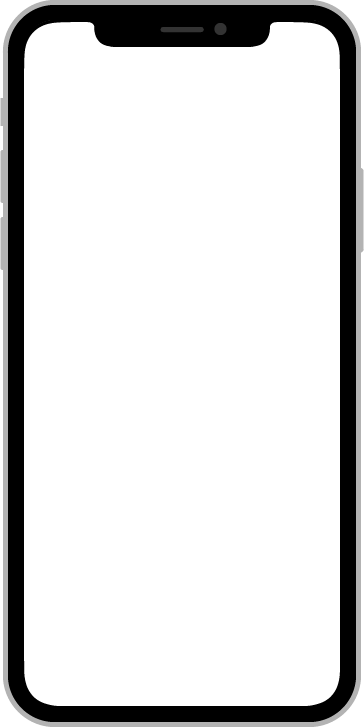
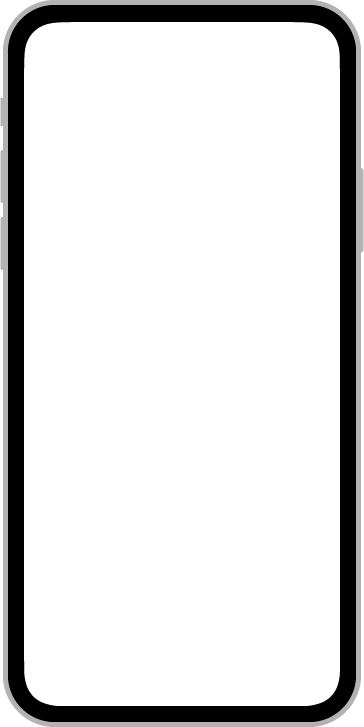
1

Changed region(s): [[0.2418, 0.0303, 0.7555, 0.0908]]

diff --git a/components/demo.vue b/components/demo.vue
@@ -53,7 +53,6 @@ const isShow = computed(() => {
   position: relative;
   height: 727px;
   width: 364px;
-  background-color: var(--vp-c-bg);
   border-radius: 50px;
   margin-left: 50px;
 
@@ -69,8 +68,8 @@ const isShow = computed(() => {
     border: 0;
     position: absolute;
     left: 24px;
-    top: 48px;
-    height: 658px;
+    top: 22px;
+    height: 684px;
     width: calc(100% - 48px);
     border-radius: 0 0 30px 0;
   }
@@ -81,7 +80,7 @@ const isShow = computed(() => {
 
   .view {
     display: flex;
-    margin-top: 20px;
+    padding: 20px 0 50px 0;
 
     .item {
       flex: 1;

diff --git a/src/introduce/i18n.md b/src/introduce/i18n.md
@@ -16,15 +16,15 @@ Cool Unix 内置强大的国际化插件，支持多语言切换和 AI 智能翻
 在项目根目录的 `/locale/index.ts` 文件中配置支持的语言：
 
 ```js
-import { zhHans } from "./zh-Hans";
+import { zhcn } from "./zh-cn";
 import { en } from "./en";
 import { es } from "./es";
 
 // 定义支持的语言包
 const messages = {
-  "zh-Hans": zhHans, // 简体中文
-  en: en, // 英语
-  es: es, // 西班牙语
+  "zh-cn": zhcn, // 简体中文
+  en, // 英语
+  es, // 西班牙语
 };
 
 export { messages };
@@ -101,10 +101,10 @@ npm i @cool-vue/ai -g
 
 ```bash
 # 创建/更新翻译文件
-cool-i18n create
+npx cool-i18n create
 
 # 清除所有翻译文件
-cool-i18n clear
+npx cool-i18n clear
 ```
 
 ### 工作流程
@@ -119,7 +119,7 @@ cool-i18n clear
 ```
 项目根目录/
 └── locale/
-    ├── zh-Hans.ts    # 简体中文
+    ├── zh-cn.ts    # 简体中文
     ├── en.ts         # 英语
     └── es.ts         # 西班牙语
 ```
@@ -128,13 +128,12 @@ cool-i18n clear
 
 ### 主要语言
 
-| 语言     | 代码                | 地区     |
-| -------- | ------------------- | -------- |
-| 简体中文 | `zh-Hans` / `zh-cn` | 中国大陆 |
-| 繁体中文 | `zh-tw`             | 中国台湾 |
-| 英语     | `en`                | 美国     |
-| 日语     | `ja`                | 日本     |
-| 韩语     | `ko`                | 韩国     |
+| 语言     | 代码      | 地区     |
+| -------- | --------- | -------- |
+| 简体中文 | `zh-cn` ` | 中国大陆 |
+| 英语     | `en`      | 美国     |
+| 日语     | `ja`      | 日本     |
+| 韩语     | `ko`      | 韩国     |
 
 ### 欧洲语言
 

diff --git a/src/guide/config.md b/src/guide/config.md
@@ -45,7 +45,7 @@ type Config = {
 export const config = {
   name: "cool-unix",
   version: "1.0.0",
-  locale: "zh-Hans",
+  locale: "zh",
   website: "https://cool-js.com",
   showDarkButton: isMp() ? false : true, // 小程序端隐藏暗色模式按钮
   isCustomTabBar: true,
@@ -60,7 +60,7 @@ export const config = {
 | ---------------- | ------- | ------------------------------ | ----------------------- |
 | `name`           | string  | 应用名称，用于显示和标识       | "cool-unix"             |
 | `version`        | string  | 应用版本号，建议遵循语义化版本 | "1.0.0"                 |
-| `locale`         | string  | 国际化语言代码                 | "zh-Hans"               |
+| `locale`         | string  | 国际化语言代码                 | "zh"                    |
 | `website`        | string  | 官方网站链接                   | "https://cool-js.com"   |
 | `showDarkButton` | boolean | 暗色模式切换按钮显示控制       | 小程序:false, 其他:true |
 | `isCustomTabBar` | boolean | 是否启用自定义底部导航栏       | true                    |

diff --git a/src/todo/plan.md b/src/todo/plan.md
@@ -29,6 +29,13 @@
 
 ### 💼 业务功能集成
 
+#### 手机支付
+
+- **微信小程序支付** - 支持微信生态用户便捷登录与支付体验
+- **微信 APP 支付** - 集成原生微信支付与登录，提升应用内支付便捷性
+- **iOS 支付** - 支持苹果设备的原生支付能力，保障支付安全与流畅
+- **鸿蒙支付** - 深度适配鸿蒙系统，提供原生支付与登录支持
+
 #### 社交登录
 
 - **微信公众号登录** - 支持微信生态用户快速登录

diff --git a/src/introduce/index.md b/src/introduce/index.md
@@ -14,6 +14,10 @@
 | **Gitee**   | [cool-team-official/cool-unix](https://gitee.com/cool-team-official/cool-unix)  |
 | **GitCode** | [cool_team/cool-unix](https://gitcode.com/cool_team/cool-unix)                  |
 
+加入我们：
+
+<img src="/show/wechat.png" style="width: 200px" />
+
 ## 🛠 核心技术栈
 
 采用业界领先的技术组合，确保项目的稳定性和可扩展性：
